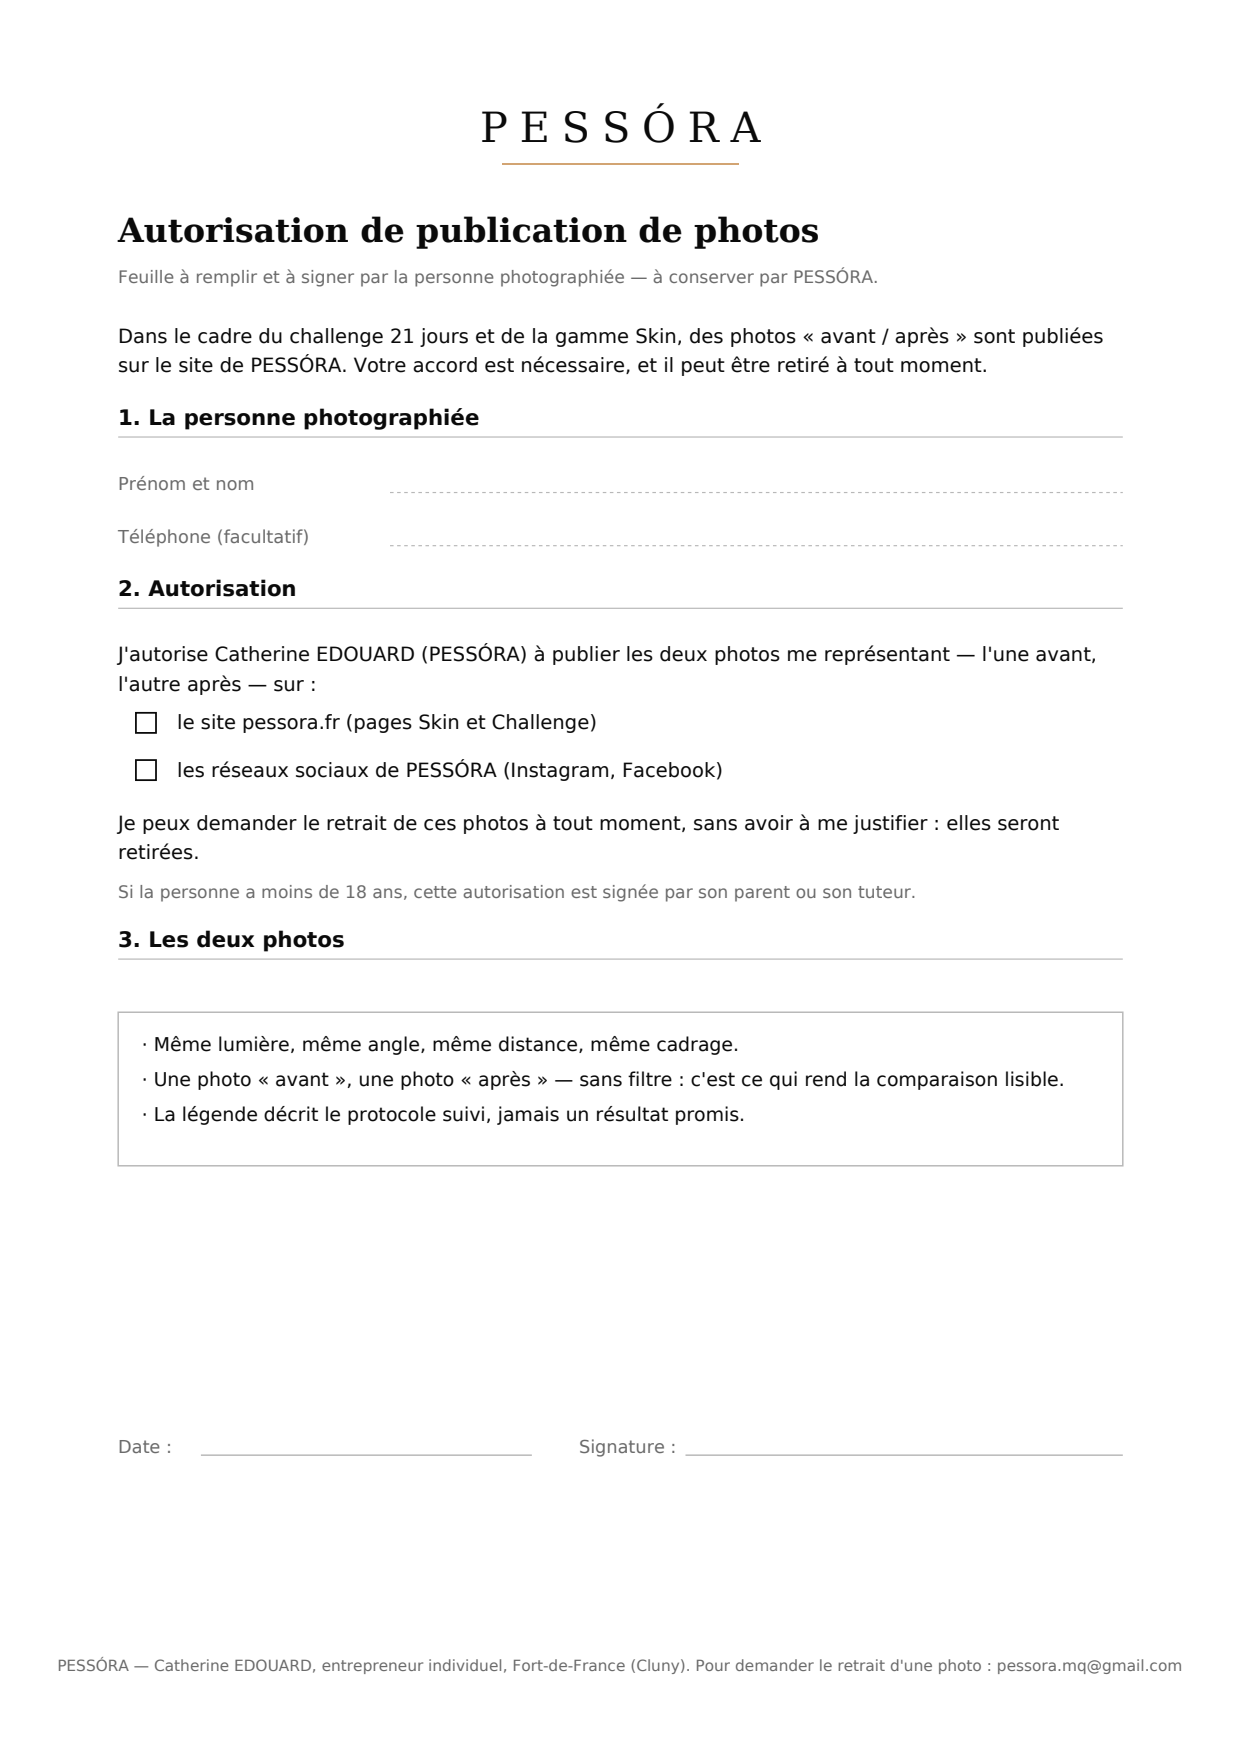
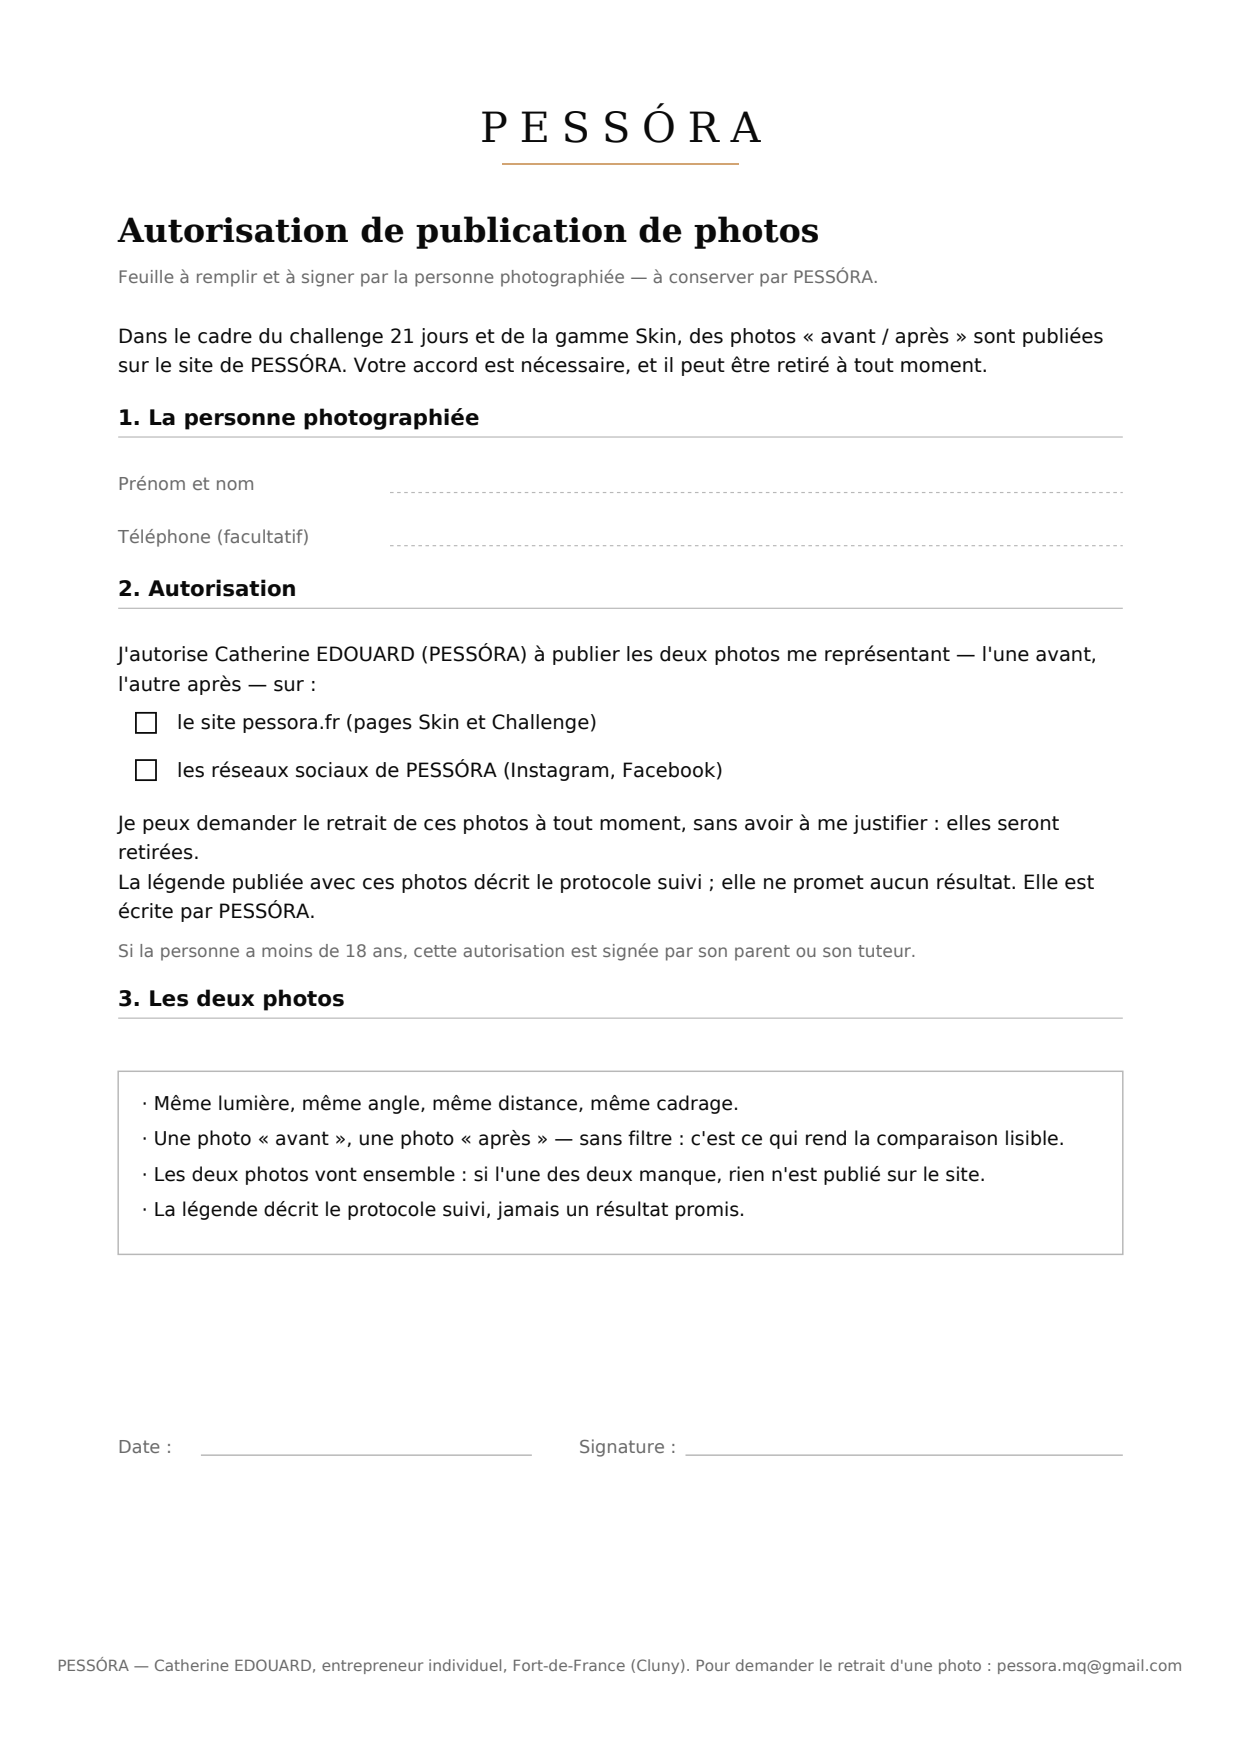
docs(accord-photos): suit la paire avant/apres -- deux photos ou rien, et la legende couverte
- ajoute 'les deux photos vont ensemble : si l'une des deux manque, rien n'est publie' (critere @vela)
- ajoute : la legende publiee decrit le protocole, aucun resultat, ecrite par PESSORA (champ legende de la paire)
- re-rendu et reverifie (extraction 13 probes + rasterisation)

Changed region(s): [[0.0919, 0.4926, 0.8574, 0.7081], [0.8268, 0.4926, 0.888, 0.5234]]

diff --git a/docs/feuille-accord-photos/build_feuille_accord.py b/docs/feuille-accord-photos/build_feuille_accord.py
@@ -47,11 +47,14 @@ AUT_P1 = "J'autorise Catherine EDOUARD (PESSÓRA) à publier les deux photos me 
 CASES = ["le site pessora.fr (pages Skin et Challenge)",
          "les réseaux sociaux de PESSÓRA (Instagram, Facebook)"]
 AUT_P2 = "Je peux demander le retrait de ces photos à tout moment, sans avoir à me justifier : elles seront retirées."
+AUT_P4 = ("La légende publiée avec ces photos décrit le protocole suivi ; elle ne promet aucun résultat. "
+          "Elle est écrite par PESSÓRA.")
 AUT_P3 = "Si la personne a moins de 18 ans, cette autorisation est signée par son parent ou son tuteur."
 
 S3 = "3. Les deux photos"
 PHOTOS = ["Même lumière, même angle, même distance, même cadrage.",
           "Une photo « avant », une photo « après » — sans filtre : c'est ce qui rend la comparaison lisible.",
+          "Les deux photos vont ensemble : si l'une des deux manque, rien n'est publié sur le site.",
           "La légende décrit le protocole suivi, jamais un résultat promis."]
 
 PIED = ("PESSÓRA — Catherine EDOUARD, entrepreneur individuel, Fort-de-France (Cluny). "
@@ -156,7 +159,7 @@ for case in CASES:
     c.drawString((M + 10.0) * mm, y(cur), case)
     cur += 8.0
 cur += 1.0
-for para in (AUT_P2,):
+for para in (AUT_P2, AUT_P4):
     c.setFillColor(NOIR)
     c.setFont("Sans", 3.3 * mm)
     for line in wrap(para, "Sans", 3.3 * mm, CW):
@@ -171,7 +174,7 @@ for line in wrap(AUT_P3, "Sans", 2.9 * mm, CW):
 
 # ---------------------------------------------------------------- 3. les deux photos
 cur = section(S3, cur + 4.0)
-BOX_H = 26.0
+BOX_H = 31.0
 c.setStrokeColor(LINE)
 c.setLineWidth(0.25 * mm)
 c.rect(M * mm, y(cur + BOX_H), CW * mm, BOX_H * mm, stroke=1, fill=0)
@@ -223,6 +226,8 @@ MD.write_text(
         *[f"- [ ] {case}" for case in CASES],
         "",
         AUT_P2,
+        "",
+        AUT_P4,
         "",
         f"_{AUT_P3}_",
         "",

diff --git a/docs/feuille-accord-photos/feuille-accord-photos-pessora.md b/docs/feuille-accord-photos/feuille-accord-photos-pessora.md
@@ -20,12 +20,15 @@ J'autorise Catherine EDOUARD (PESSÓRA) à publier les deux photos me représent
 
 Je peux demander le retrait de ces photos à tout moment, sans avoir à me justifier : elles seront retirées.
 
+La légende publiée avec ces photos décrit le protocole suivi ; elle ne promet aucun résultat. Elle est écrite par PESSÓRA.
+
 _Si la personne a moins de 18 ans, cette autorisation est signée par son parent ou son tuteur._
 
 ## 3. Les deux photos
 
 - Même lumière, même angle, même distance, même cadrage.
 - Une photo « avant », une photo « après » — sans filtre : c'est ce qui rend la comparaison lisible.
+- Les deux photos vont ensemble : si l'une des deux manque, rien n'est publié sur le site.
 - La légende décrit le protocole suivi, jamais un résultat promis.
 
 Date : ......................   Signature : ......................
